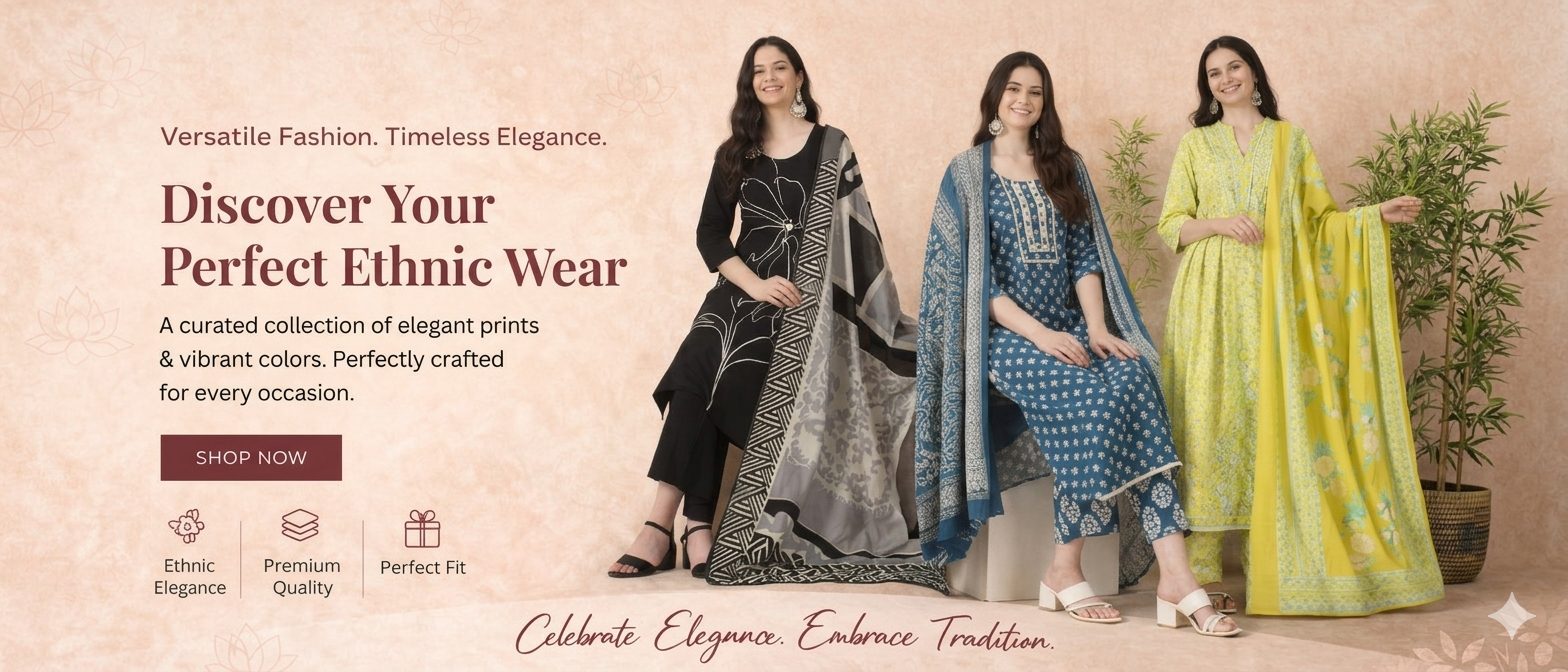
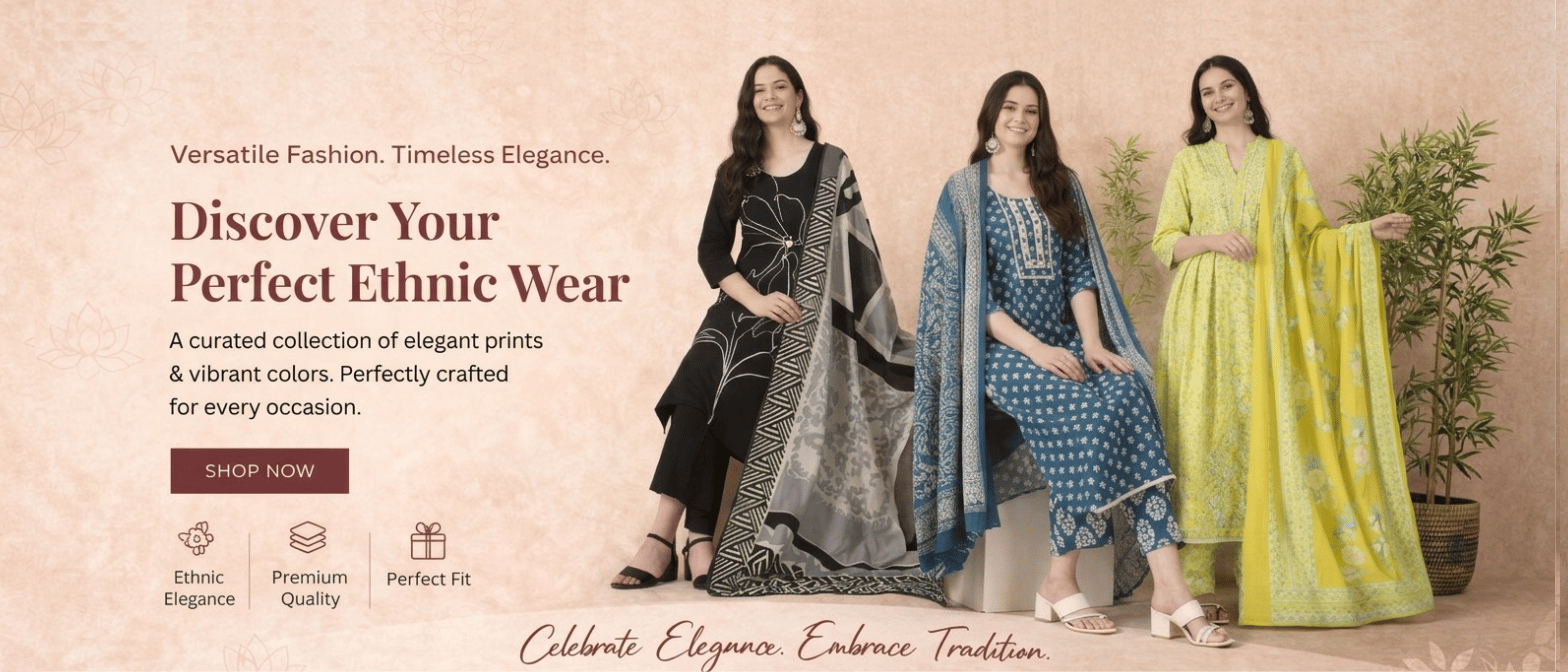
change the photo and reviews

diff --git a/store-frontend/src/pages/store/ProductDetail.jsx b/store-frontend/src/pages/store/ProductDetail.jsx
@@ -41,7 +41,7 @@ const ProductDetail = () => {
   const [relatedProducts, setRelatedProducts] = useState([]);
   const [reviews, setReviews] = useState([]);
   const [isReviewing, setIsReviewing] = useState(false);
-  const [reviewForm, setReviewForm] = useState({ rating: 5, comment: '', name: '' });
+  const [reviewForm, setReviewForm] = useState({ rating: 5, comment: '', name: '', email: '' });
   const [submittingReview, setSubmittingReview] = useState(false);
 
   const thumbnailRefs = useRef([]);
@@ -140,6 +140,7 @@ const ProductDetail = () => {
       await api.post('/reviews', {
         productId: product.id,
         userName: reviewForm.name,
+        userEmail: reviewForm.email,
         rating: reviewForm.rating,
         comment: reviewForm.comment
       });
@@ -147,7 +148,13 @@ const ProductDetail = () => {
       const reviewsRes = await api.get(`/reviews/product/${id}`);
       setReviews(reviewsRes.data);
 
-      setReviewForm({ rating: 5, comment: '', name: '' });
+      const savedCustomer = localStorage.getItem('customer');
+      if (savedCustomer) {
+        const customer = JSON.parse(savedCustomer);
+        setReviewForm({ rating: 5, comment: '', name: customer.name || '', email: customer.email || '' });
+      } else {
+        setReviewForm({ rating: 5, comment: '', name: '', email: '' });
+      }
       setIsReviewing(false);
     } catch (error) {
       console.error('Error submitting review:', error);
@@ -155,6 +162,21 @@ const ProductDetail = () => {
       setSubmittingReview(false);
     }
   };
+
+  // Auto-populate review form when opening
+  useEffect(() => {
+    if (isReviewing) {
+      const savedCustomer = localStorage.getItem('customer');
+      if (savedCustomer) {
+        const customer = JSON.parse(savedCustomer);
+        setReviewForm(prev => ({
+          ...prev,
+          name: customer.name || prev.name,
+          email: customer.email || prev.email
+        }));
+      }
+    }
+  }, [isReviewing]);
 
   const handleShare = async () => {
     if (navigator.share) {
@@ -612,16 +634,27 @@ const ProductDetail = () => {
                       </div>
                     </div>
                     <div className="space-y-2">
-                      <label className="text-[0.6rem] font-black uppercase tracking-widest text-gray-400">Your Name</label>
-                      <input 
-                        required
-                        type="text" 
-                        value={reviewForm.name}
-                        onChange={e => setReviewForm({ ...reviewForm, name: e.target.value })}
-                        className="w-full px-4 py-3 bg-gray-50 border border-gray-100 rounded-xl focus:bg-white focus:border-black transition-all outline-none font-bold text-sm"
-                        placeholder="John Doe"
-                      />
-                    </div>
+                       <label className="text-[0.6rem] font-black uppercase tracking-widest text-gray-400">Your Name</label>
+                       <input 
+                         required
+                         type="text" 
+                         value={reviewForm.name}
+                         onChange={e => setReviewForm({ ...reviewForm, name: e.target.value })}
+                         className="w-full px-4 py-3 bg-gray-50 border border-gray-100 rounded-xl focus:bg-white focus:border-black transition-all outline-none font-bold text-sm"
+                         placeholder="John Doe"
+                       />
+                     </div>
+                     <div className="space-y-2">
+                       <label className="text-[0.6rem] font-black uppercase tracking-widest text-gray-400">Email Address</label>
+                       <input 
+                         required
+                         type="email" 
+                         value={reviewForm.email}
+                         onChange={e => setReviewForm({ ...reviewForm, email: e.target.value })}
+                         className="w-full px-4 py-3 bg-gray-50 border border-gray-100 rounded-xl focus:bg-white focus:border-black transition-all outline-none font-bold text-sm"
+                         placeholder="[email redacted]"
+                       />
+                     </div>
                     <div className="space-y-2">
                       <label className="text-[0.6rem] font-black uppercase tracking-widest text-gray-400">Review</label>
                       <textarea 
@@ -657,7 +690,7 @@ const ProductDetail = () => {
                         {new Date(r.createdAt).toLocaleDateString('en-US', { month: 'short', day: 'numeric', year: 'numeric' })}
                       </span>
                     </div>
-                    <h4 className="text-sm font-black text-gray-900 uppercase tracking-tight">{r.name || 'Anonymous User'}</h4>
+                    <h4 className="text-sm font-black text-gray-900 uppercase tracking-tight">{r.userName || 'Anonymous User'}</h4>
                     <p className="text-gray-500 text-sm leading-relaxed font-medium">{r.comment}</p>
                   </div>
                 ))
@@ -723,4 +756,3 @@ const ProductDetail = () => {
 };
 
 export default ProductDetail;
-